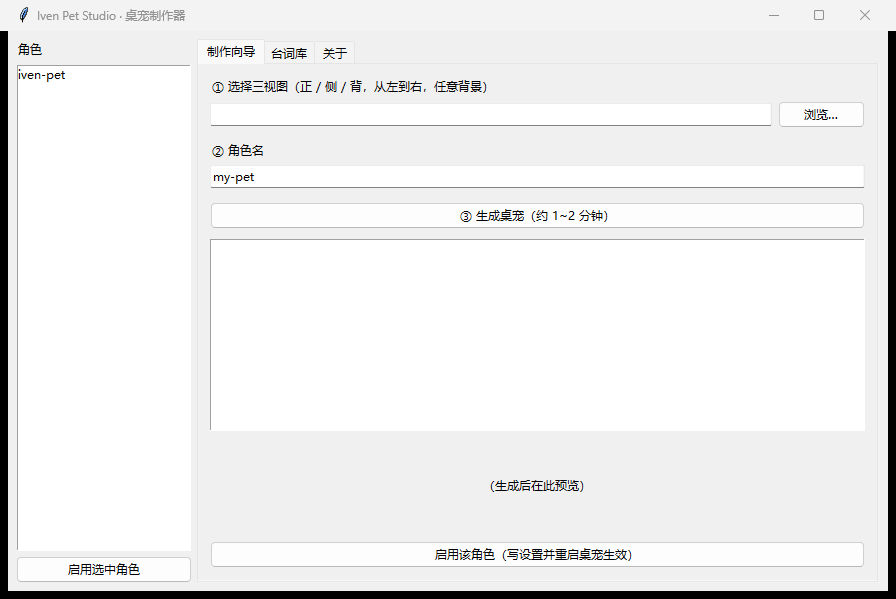
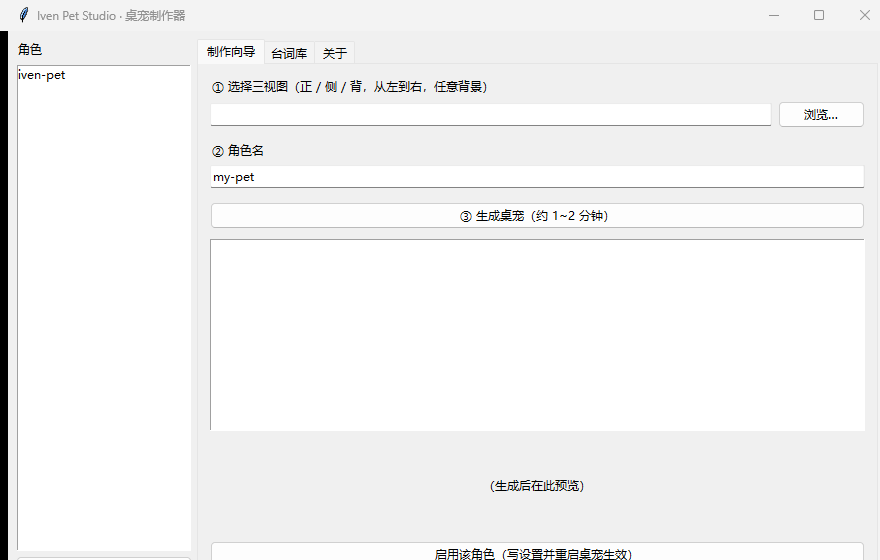
docs: README 挂 Studio 制作器截图（docs/images/studio.png）

diff --git a/tools/_shot_studio.py b/tools/_shot_studio.py
@@ -1,0 +1,57 @@
+"""临时：PrintWindow 截取 Studio 窗口（用后即删）。"""
+import ctypes
+import ctypes.wintypes as wt
+
+from PIL import Image
+
+user32 = ctypes.windll.user32
+gdi32 = ctypes.windll.gdi32
+targets = []
+
+
+@ctypes.WINFUNCTYPE(ctypes.c_bool, wt.HWND, wt.LPARAM)
+def cb(hwnd, _):
+    if user32.IsWindowVisible(hwnd):
+        buf = ctypes.create_unicode_buffer(256)
+        user32.GetWindowTextW(hwnd, buf, 256)
+        if "Iven Pet Studio" in buf.value:
+            targets.append(hwnd)
+    return True
+
+
+user32.EnumWindows(cb, None)
+assert targets, "studio not found"
+hwnd = targets[0]
+rc = wt.RECT()
+user32.GetClientRect(hwnd, ctypes.byref(rc))
+W, H = rc.right, rc.bottom
+hdcw = user32.GetWindowDC(hwnd)
+hdcm = gdi32.CreateCompatibleDC(hdcw)
+hbmp = gdi32.CreateCompatibleBitmap(hdcw, W, H)
+gdi32.SelectObject(hdcm, hbmp)
+user32.PrintWindow(hwnd, hdcm, 2)
+
+
+class BMI(ctypes.Structure):
+    _fields_ = [("biSize", ctypes.c_uint32), ("biWidth", ctypes.c_int32),
+                ("biHeight", ctypes.c_int32), ("biPlanes", ctypes.c_uint16),
+                ("biBitCount", ctypes.c_uint16), ("biCompression", ctypes.c_uint32),
+                ("biSizeImage", ctypes.c_uint32), ("xPPM", ctypes.c_int32),
+                ("yPPM", ctypes.c_int32), ("clrUsed", ctypes.c_uint32),
+                ("clrImportant", ctypes.c_uint32)]
+
+
+bmi = BMI()
+bmi.biSize = ctypes.sizeof(BMI)
+bmi.biWidth = W
+bmi.biHeight = -H
+bmi.biPlanes = 1
+bmi.biBitCount = 32
+buf = ctypes.create_string_buffer(W * H * 4)
+gdi32.GetDIBits(hdcm, hbmp, 0, H, buf, ctypes.byref(bmi), 0)
+img = Image.frombuffer("RGBA", (W, H), buf.raw, "raw", "BGRA", 0, 1).convert("RGB")
+img.save("assets/cut/studio_ui.png")
+gdi32.DeleteObject(hbmp)
+gdi32.DeleteDC(hdcm)
+user32.ReleaseDC(hwnd, hdcw)
+print("shot ok", img.size)

diff --git a/README.zh-CN.md b/README.zh-CN.md
@@ -25,6 +25,9 @@ python pet.py
 
 ![Iven Pet Studio](docs/images/studio.png)
 
+
+![Iven Pet Studio · 桌宠制作器](docs/images/studio.png)
+
 ## MVP：只传一张三视图
 
 不想凑齐全套 Sheet？一张三视图（正/侧/背，从左到右）即可出**简化版**桌宠（呼吸压扁 + 程序剪腿步态 + 转体，21 帧）：

diff --git a/README.md b/README.md
@@ -43,6 +43,9 @@ Close her via right-click menu → 退出 (Exit).
 
 ![Iven Pet Studio](docs/images/studio.png)
 
+
+![Iven Pet Studio · 桌宠制作器](docs/images/studio.png)
+
 ## Build Your Own IP Pet
 
 The whole pipeline is documented as a step-by-step SOP:
